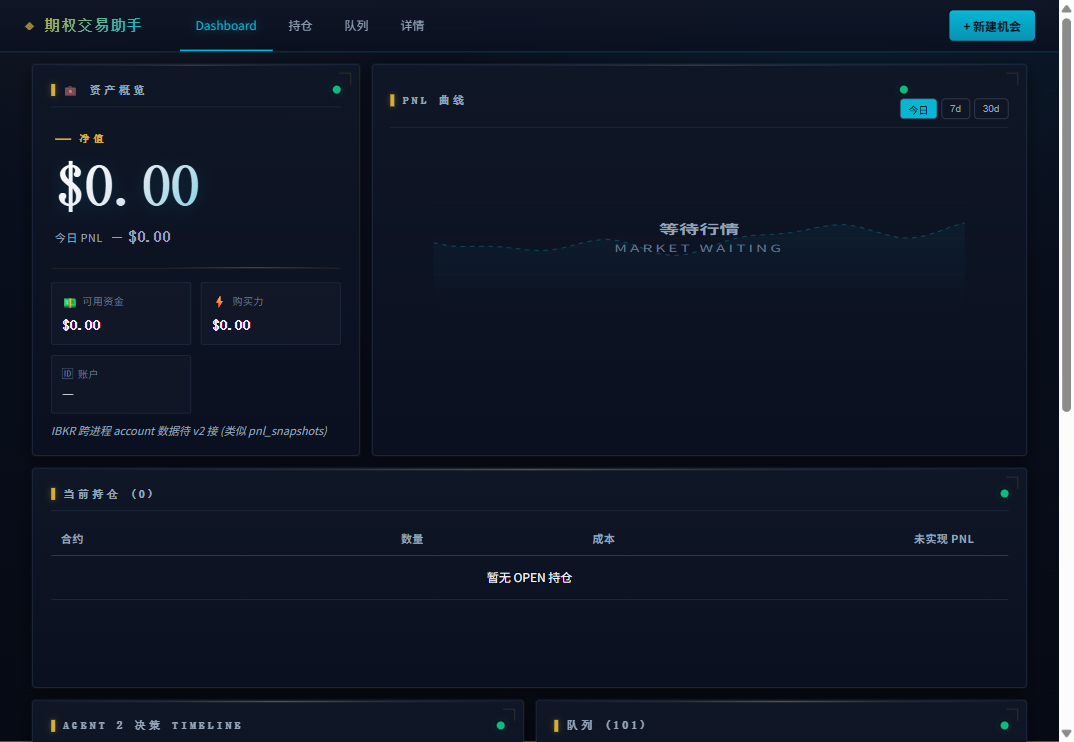
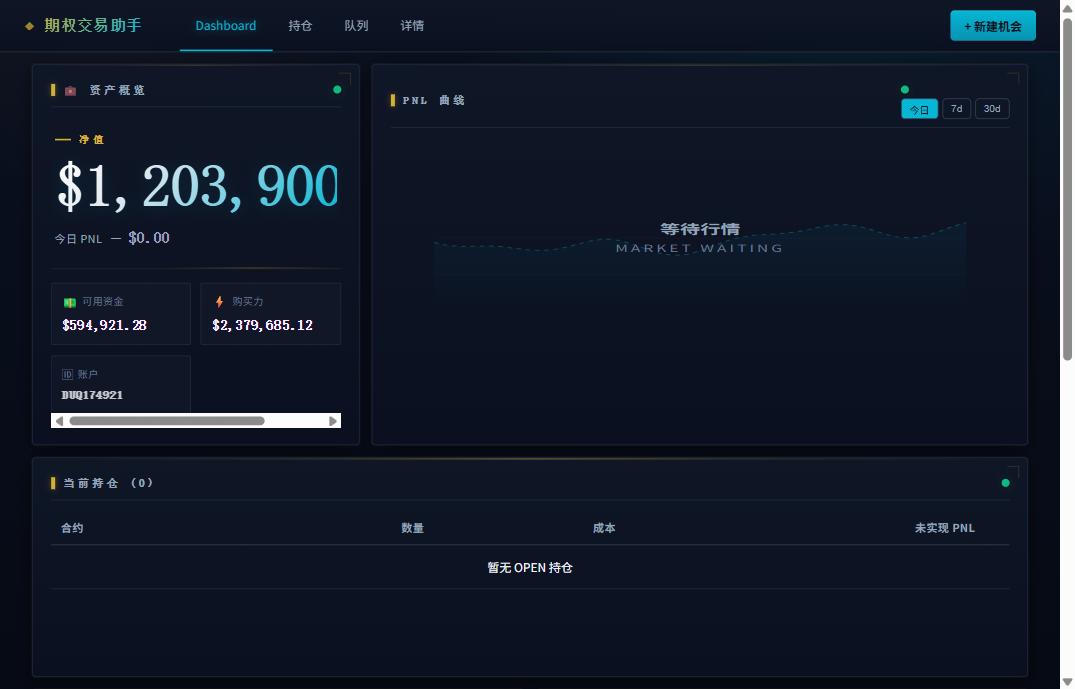
docs(options-trader): demo 截图 + caption 更新到 P0-5 最终版
替换 2 张截图为下午 P0-5 修复后真实截取:
- 2026-05-01_dashboard.png: 资产卡显示真实 IBKR 账户 (DUQ174921 净值 $1.2M /
  可用 $594K / 购买力 $2.4M), 不再 v2 stub $0
- 2026-05-01_detail.png: 详情页 4 section inline 流式像句子紧凑, 全 30+ 字段
  字段用 · 分隔, 一屏看完不空旷 (替换之前 grid 表单空旷版)

Caption 更新:
- 顶部 admonition 加 2 条改进点 (Dashboard 真实账户 + 详情页 inline 流式)
- "解析结果展示页" caption 重写, 加设计哲学说明: "改字段就直接回弹框改输入
  重新解析" (raw_input_text 是唯一真相, 跟 invariant 13 心智一致)

🤖 Generated with [Claude Code](https://claude.com/claude-code)

diff --git a/docs/options-trader/dashboard/agent-demo-2026-05-01.md b/docs/options-trader/dashboard/agent-demo-2026-05-01.md
@@ -19,6 +19,8 @@ hide:
     - :material-progress-clock: **进度提示更友好**: AI 解析中显示倒计时 (X 秒) + "通常 8-15 秒, 不要刷新" 提示, 避免客户误以为系统卡死
     - :material-test-tube: **自动化测试 18/18 通过**: 端到端测试套件全绿, Dashboard / 持仓 / 队列 / 详情 / 弹框全部回归通过
     - :material-shield-check: **错误页友好化**: 无效或已删除的机会链接显示明确说明 + "返回队列"按钮, 不再出现"全黑死机"观感
+    - :material-view-dashboard: **Dashboard 资产卡显示真实账户**: 从 v2 stub 切到 IBKR 直连, 净值 / 可用 / 购买力 / 账户号实时显示
+    - :material-format-paragraph: **详情页 inline 流式像句子紧凑**: 4 section (基础 / 触发 / 风险 / 策略) 全 30+ 字段, 字段 · 分隔, 一屏看完不空旷
 
     **本次解决的关键问题**:
 
@@ -432,7 +434,9 @@ AI 拿到上面完整市场画像 + 客户意图（看涨 / 最多亏 $600 / 平
 
 ![解析详情](assets/2026-05-01_detail.png)
 
-系统理解后的结构化展示 — 顶部 3 大 KPI (最大亏损 / 仓位 / 方向), 中间客户原文引用 (gold 强调) + 系统中文解析摘要, 下方详细规格表 (止盈 / 止损 / 仓位 / 最大亏损)。客户在下单前**清楚看到**系统怎么理解的。
+系统理解后的结构化展示 — 顶部 3 大 KPI (最大亏损 / 仓位 / 方向), 中间客户原文引用 (gold 强调) + 系统中文解析摘要, 下方**4 section inline 流式布局** (基础 / 触发 / 风险 / 策略) **全 30+ 字段紧密像句子一样**, 字段用 · 分隔, 空字段 — 占位。客户一屏看完所有字段, 不空旷, 视觉密度高。
+
+> **设计哲学**: 客户想改字段就直接**回到弹框改输入语句重新解析** (`raw_input_text` 是唯一真相 — 重新解析自动生成新 spec, 历史可追溯)。详情页**只展示不编辑**, 跟 invariant 13 "修改 = 取消原单 + 复制单" 心智一致。
 
 ### 4. 客户队列页 (机会单生命周期)
 
